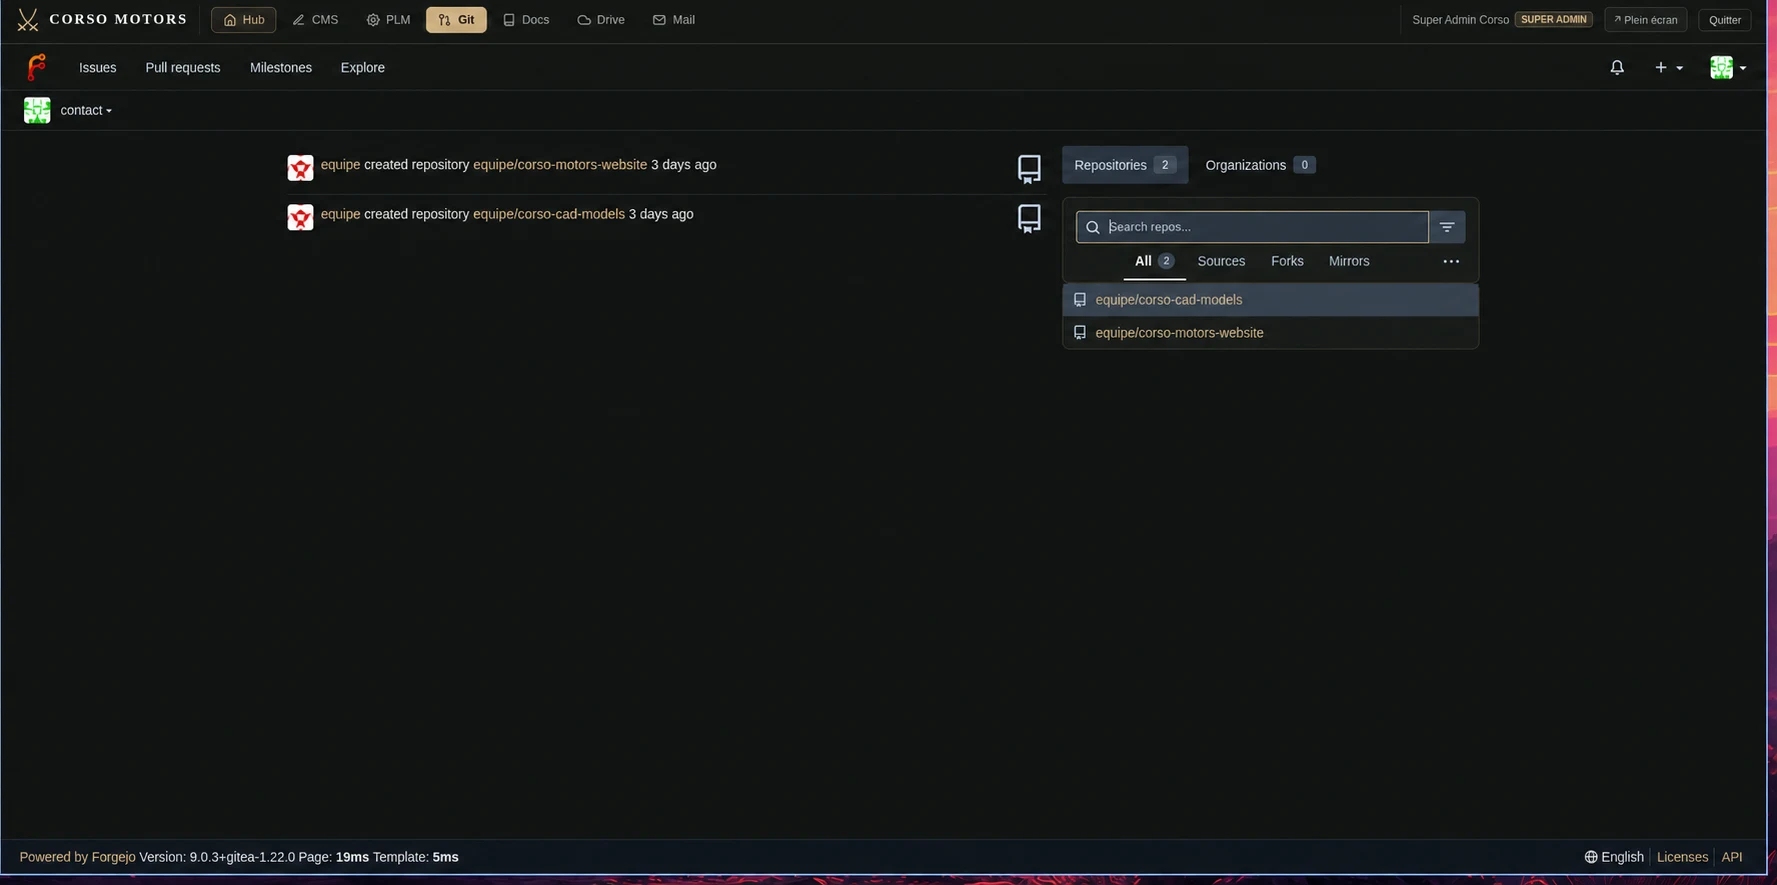
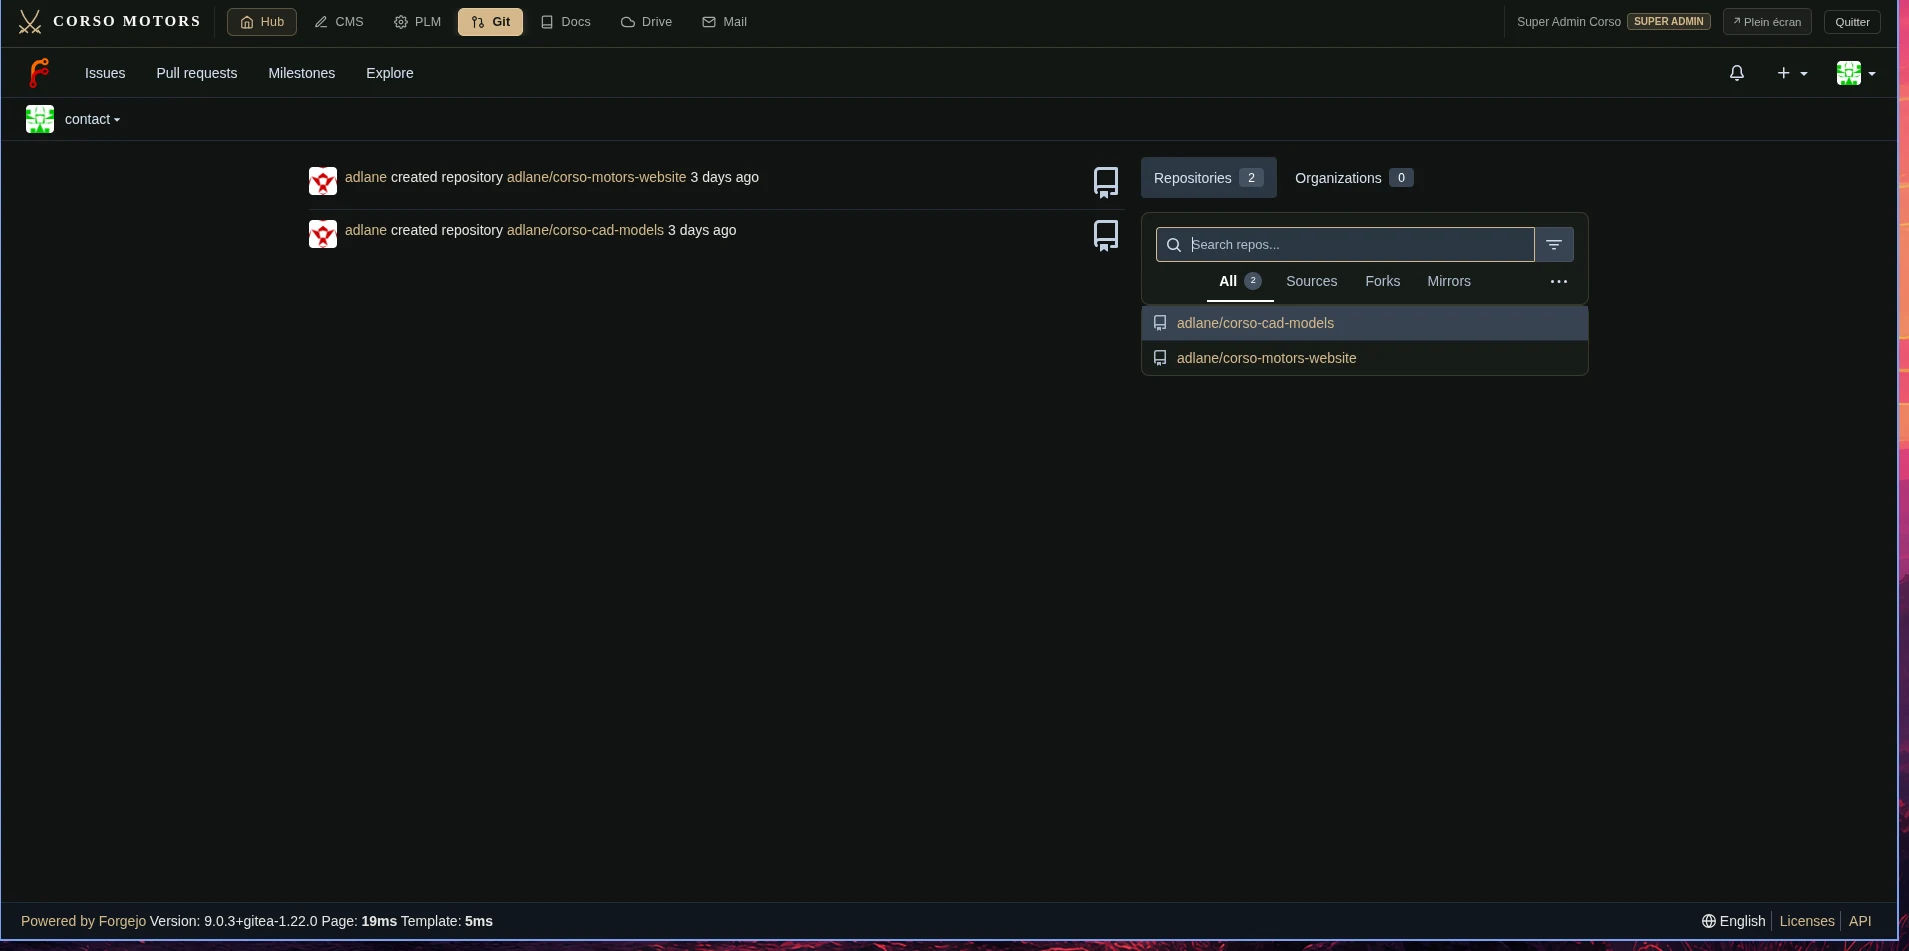
Restore Adlane in Git screenshot while keeping mail anonymized

diff --git a/src/data/projectCaptures.ts b/src/data/projectCaptures.ts
@@ -33,7 +33,7 @@ export const projectCaptures: Record<string, ProjectCapture[]> = {
     {
       src: "/projects/corso-git.webp",
       label: "Hébergement Git",
-      note: "Capture fournie par le propriétaire du projet. Identifiants personnels anonymisés.",
+      note: "Capture fournie par le propriétaire du projet.",
     },
     {
       src: "/projects/corso-docs.webp",

diff --git a/docs/project-captures.md b/docs/project-captures.md
@@ -10,6 +10,6 @@ Images réellement capturées depuis les interfaces des dépôts clonés, sans m
 | SORAVYN | `67a5b49cfe2f893a867343fe58f2086717b91963` | Serveur réel et PostgreSQL 16 isolé. Société « Portfolio — Démonstration locale », aucun agent ni campagne exécuté. Dashboard initial et Campaign Studio. |
 | Specto | `6945e13b9d10d806de2ad27abcbcc29ca178fa9b` | Next.js local, accueil et présentation des tests. Aucun test IA lancé ; les chiffres marketing font partie de la page source. |
 
-Corso Motors : neuf captures fournies par le propriétaire (site vitrine, gamme, connexion, hub, PLM, Git, documentation, Drive et messagerie). Les identifiants personnels dans Git et la messagerie ont été remplacés par des libellés génériques avec ImageGen ; les originaux non anonymisés ne sont pas publiés.
+Corso Motors : neuf captures fournies par le propriétaire (site vitrine, gamme, connexion, hub, PLM, Git, documentation, Drive et messagerie). L’adresse personnelle dans la messagerie a été remplacée par service@corso-motors.com avec ImageGen. Le nom adlane est conservé dans la capture Git, à la demande du propriétaire.
 
 Les légendes visibles sont dans `src/data/projectCaptures.ts`. La galerie utilise un dialogue natif : fermeture avec Échap, navigation avec les flèches gauche/droite et boutons SVG. Images chargées à la demande, avec dimensions explicites.

diff --git a/README.md b/README.md
@@ -15,4 +15,4 @@ L’interface respecte `prefers-reduced-motion`. La navigation entre projets et 
 
 ## Captures des projets
 
-Dix-neuf captures dans six galeries, visibles dans la liste de projets. Navigation par miniatures, agrandissement, fermeture avec Échap et flèches clavier dans le dialogue. Les images WebP sont chargées à la demande. La provenance, les révisions et les limites des environnements locaux sont documentées dans [docs/project-captures.md](docs/project-captures.md). Les neuf vues Corso Motors ont été fournies par le propriétaire et les identifiants personnels visibles ont été anonymisés.
+Dix-neuf captures dans six galeries, visibles dans la liste de projets. Navigation par miniatures, agrandissement, fermeture avec Échap et flèches clavier dans le dialogue. Les images WebP sont chargées à la demande. La provenance, les révisions et les limites des environnements locaux sont documentées dans [docs/project-captures.md](docs/project-captures.md). Les neuf vues Corso Motors ont été fournies par le propriétaire et l’adresse personnelle de la messagerie a été anonymisée ; le nom adlane reste visible dans Git.
